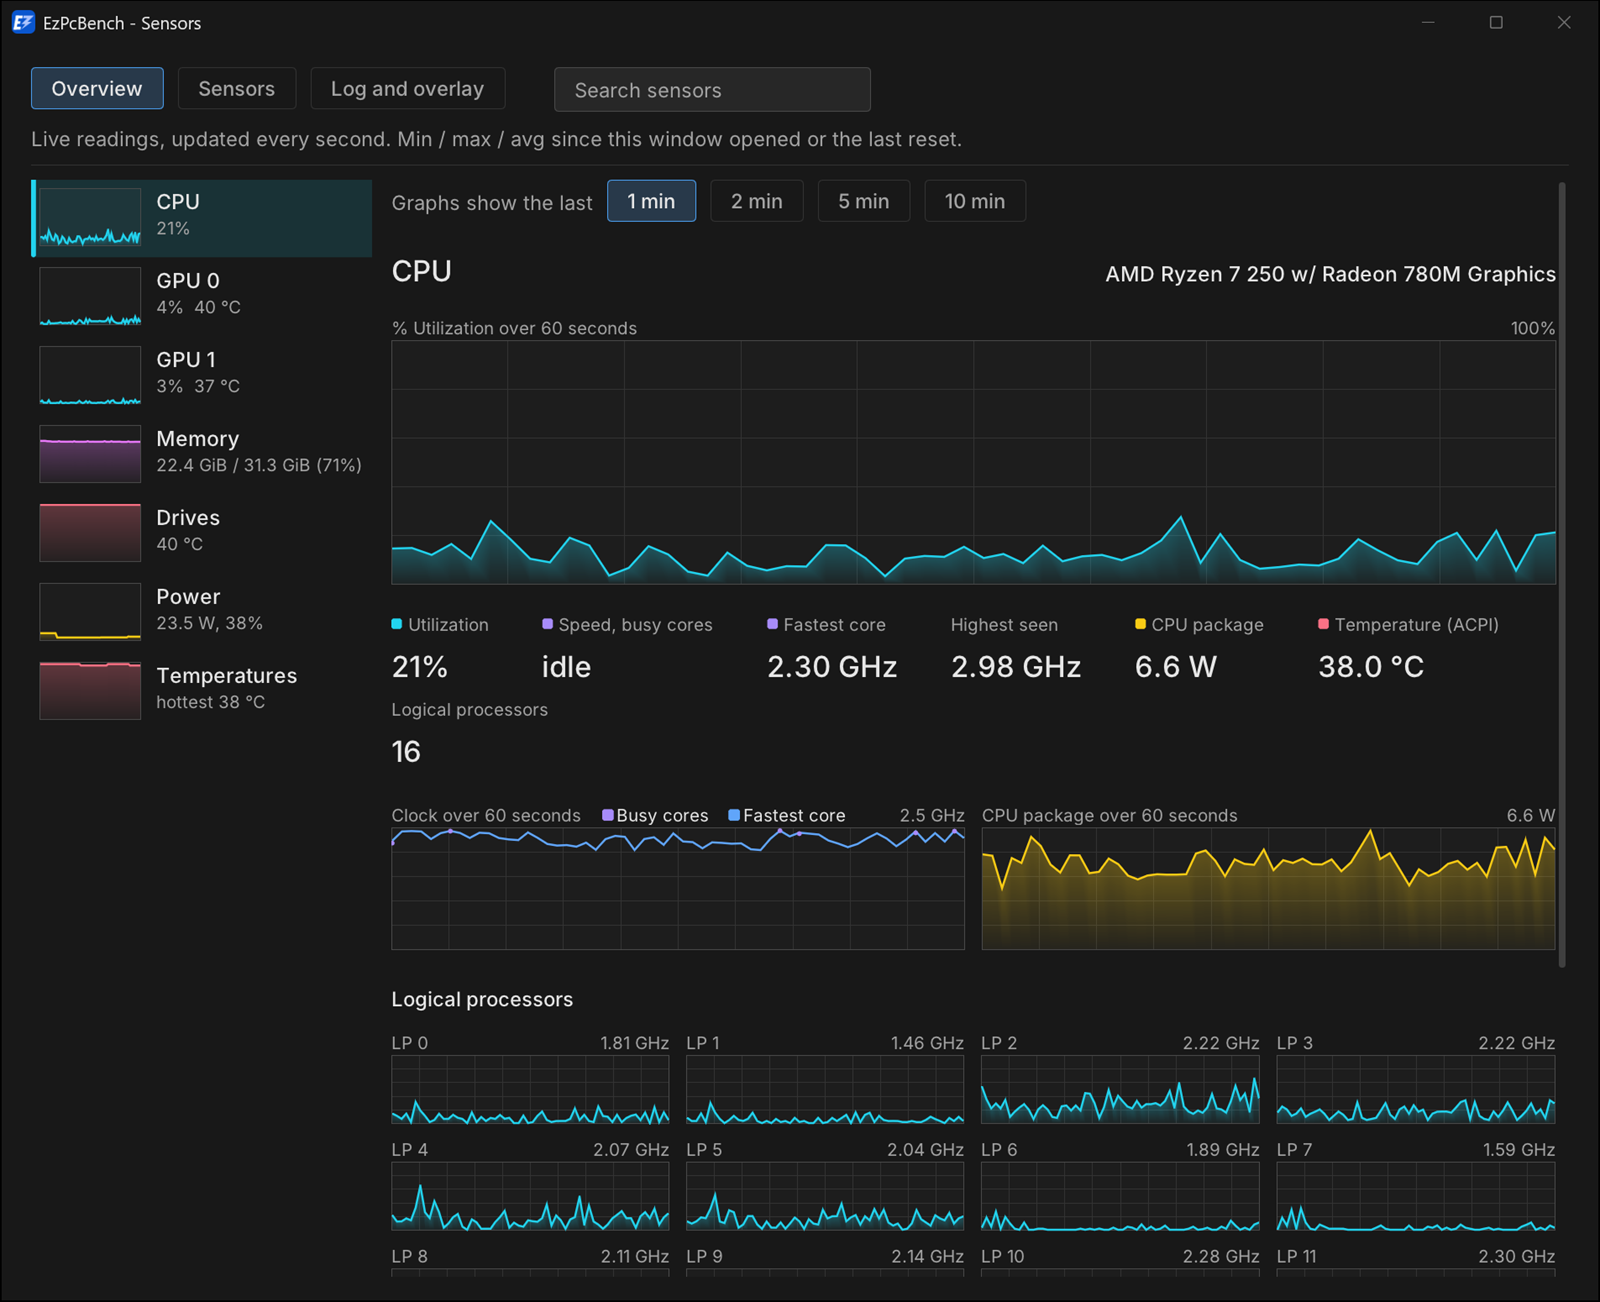
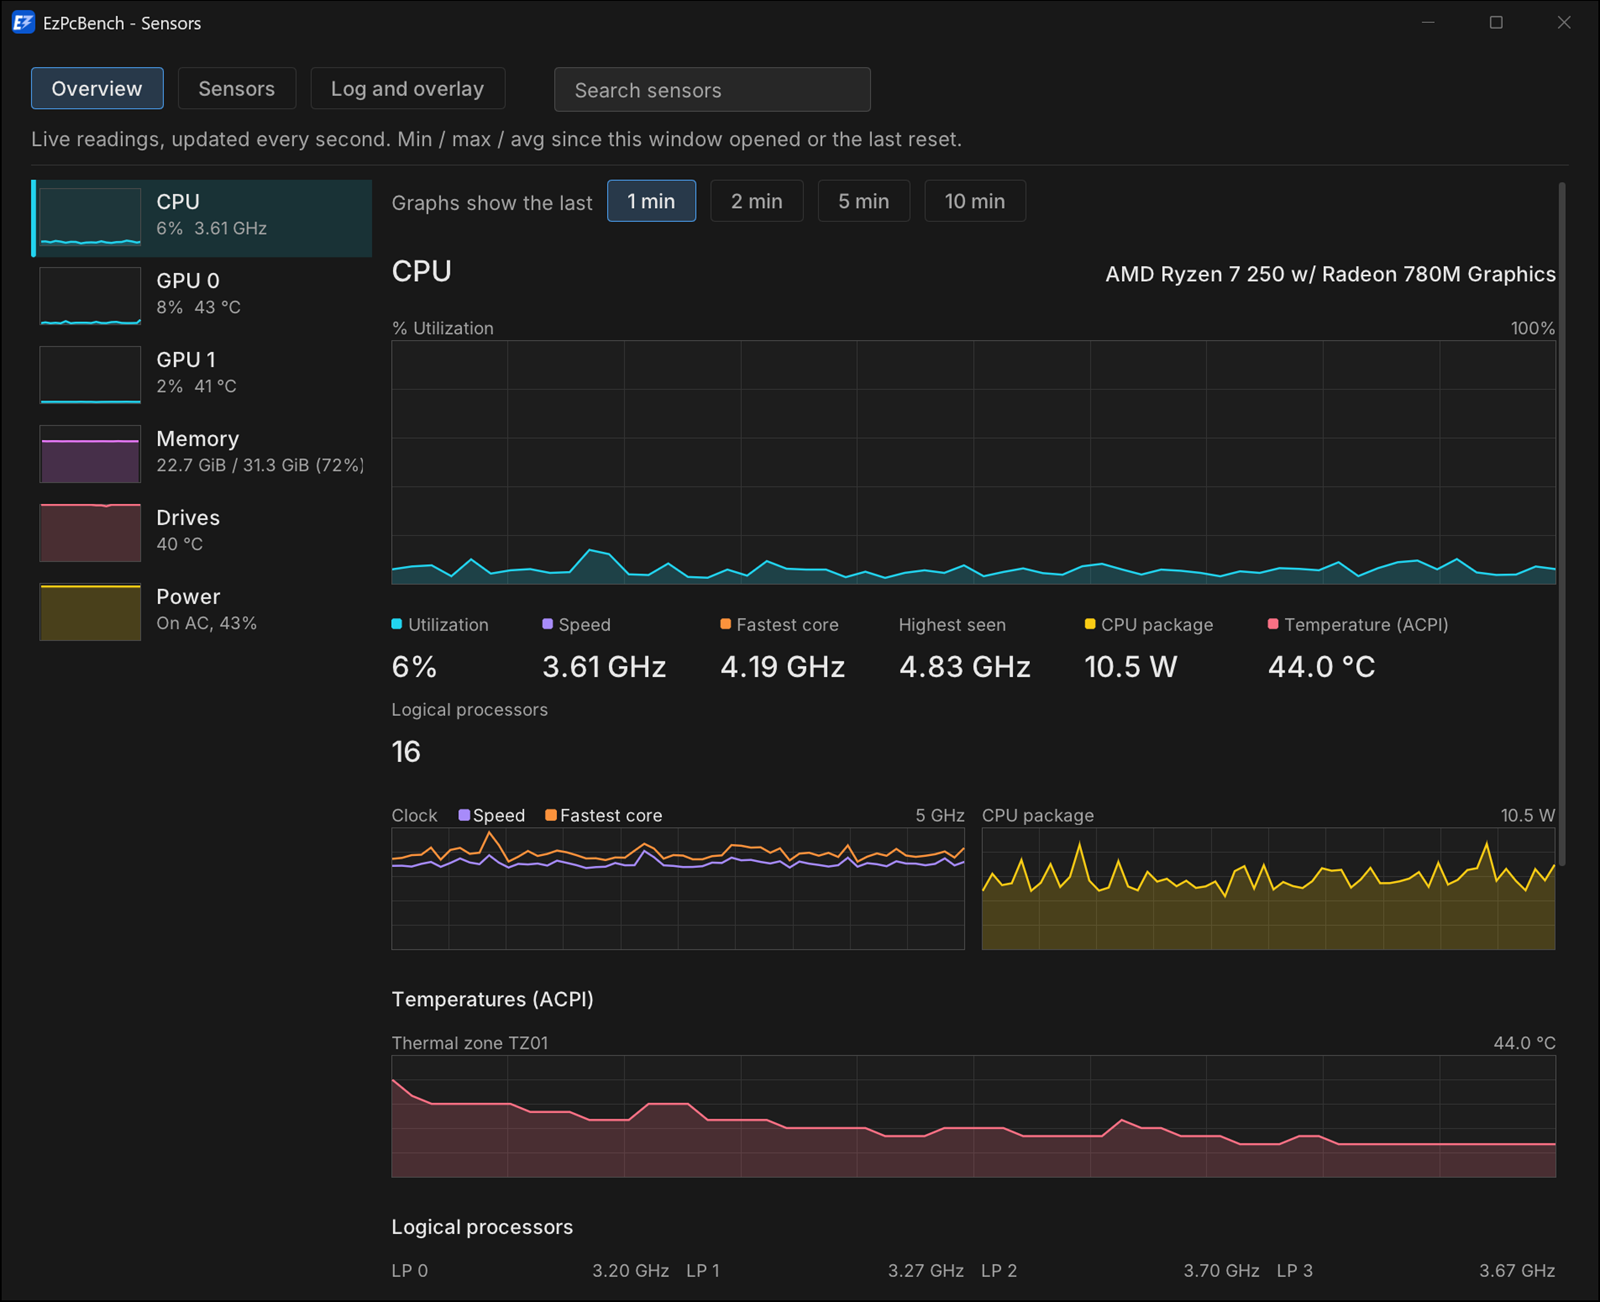
Screenshots for the latest UI

diff --git a/site/index.html b/site/index.html
@@ -219,7 +219,7 @@ footer .wrap { display: flex; gap: 16px; flex-wrap: wrap; justify-content: space
         <div class="card"><h3>System details</h3><p>CPU, RAM modules, board, GPUs, displays, PCI tree and the Windows settings that skew results.</p></div>
       </div>
       <div class="shot" style="margin-top:32px"><img src="img/sensors.png" width="1600" height="1302" loading="lazy"
-           alt="Sensors window: device list with mini graphs and the CPU page with utilization, clock, package power and per-core graphs"></div>
+           alt="Sensors window: device list with mini graphs and the CPU page with utilization, clock, package power and temperature graphs"></div>
     </div>
   </section>
 
